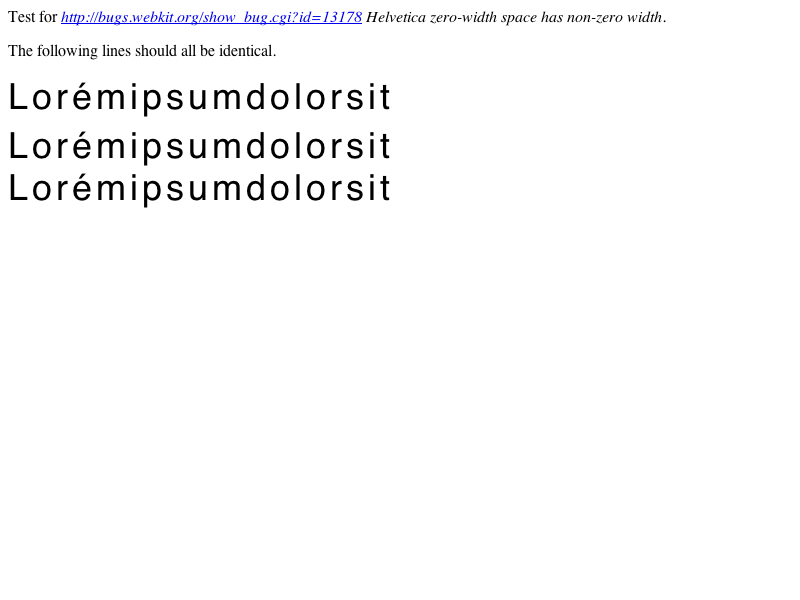
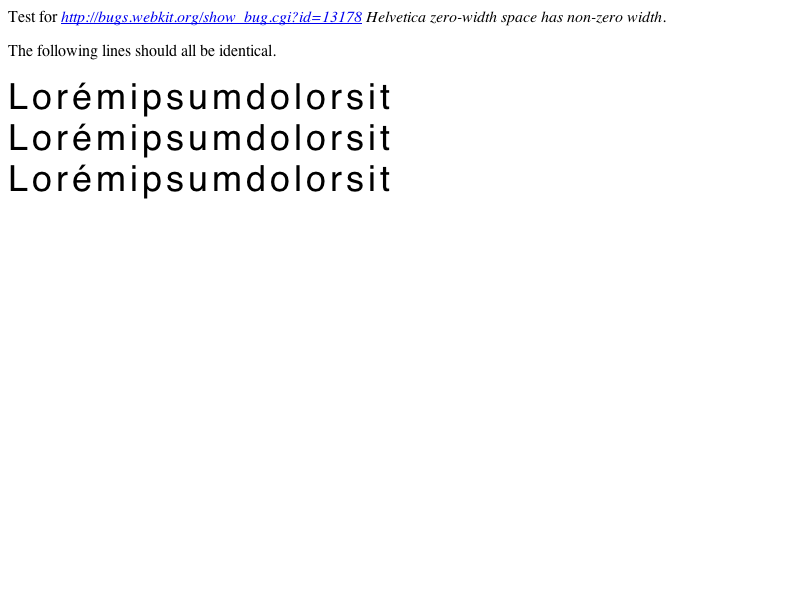
WebCore:
Reviewed by Sam Weinig.

        - fix a regression from r42379 which made zero-width characters affect
          line height

        Test: fixes fast/text/wide-zero-width-space.html

        * platform/graphics/mac/FontMacATSUI.mm:
        (WebCore::overrideLayoutOperation): Add to the fallback font list set
        here, and only if the glyph is not zero-width...
        (WebCore::ATSULayoutParameters::initialize): ...instead of doing it
        here. This matches WidthIterator's behavior.

LayoutTests:

        Reviewed by Sam Weinig.

        - revert broken test results that were checked in with r42379, now that
          the regression is fixed

        * platform/mac/fast/text/wide-zero-width-space-expected.checksum:
        * platform/mac/fast/text/wide-zero-width-space-expected.png:
        * platform/mac/fast/text/wide-zero-width-space-expected.txt:

Identifier: 34450@main
git-svn-id: https://svn.webkit.org/repository/webkit/trunk@42396 268f45cc-cd09-0410-ab3c-d52691b4dbfc

Changed region(s): [[0.0, 0.21, 0.5, 0.36]]

diff --git a/WebCore/platform/graphics/mac/FontMacATSUI.mm b/WebCore/platform/graphics/mac/FontMacATSUI.mm
@@ -183,7 +183,6 @@ static OSStatus overrideLayoutOperation(ATSULayoutOperationSelector, ATSULineRef
         bool shouldRound = false;
         bool syntheticBoldPass = params->m_syntheticBoldPass;
         Fixed syntheticBoldOffset = 0;
-        ATSGlyphRef spaceGlyph = 0;
         bool hasExtraSpacing = (params->m_font->letterSpacing() || params->m_font->wordSpacing() || params->m_run.padding()) && !params->m_run.spacingDisabled();
         float padding = params->m_run.padding();
         // In the CoreGraphics code path, the rounding hack is applied in logical order.
@@ -193,22 +192,23 @@ static OSStatus overrideLayoutOperation(ATSULayoutOperationSelector, ATSULineRef
         for (i = 1; i < count; i++) {
             bool isLastChar = i == count - 1;
             renderer = renderers[offset / 2];
-            if (renderer != lastRenderer) {
-                lastRenderer = renderer;
-                spaceGlyph = renderer->m_spaceGlyph;
-                // The CoreGraphics interpretation of NSFontAntialiasedIntegerAdvancementsRenderingMode seems
-                // to be "round each glyph's width to the nearest integer". This is not the same as ATSUI
-                // does in any of its device-metrics modes.
-                shouldRound = renderer->platformData().roundsGlyphAdvances();
-                if (syntheticBoldPass)
-                    syntheticBoldOffset = FloatToFixed(renderer->m_syntheticBoldOffset);
-            }
             float width;
             if (nextCh == zeroWidthSpace || Font::treatAsZeroWidthSpace(nextCh) && !Font::treatAsSpace(nextCh)) {
                 width = 0;
-                layoutRecords[i-1].glyphID = spaceGlyph;
+                layoutRecords[i-1].glyphID = renderer->m_spaceGlyph;
             } else {
                 width = FixedToFloat(layoutRecords[i].realPos - lastNativePos);
+                if (renderer != lastRenderer && width) {
+                    lastRenderer = renderer;
+                    // The CoreGraphics interpretation of NSFontAntialiasedIntegerAdvancementsRenderingMode seems
+                    // to be "round each glyph's width to the nearest integer". This is not the same as ATSUI
+                    // does in any of its device-metrics modes.
+                    shouldRound = renderer->platformData().roundsGlyphAdvances();
+                    if (syntheticBoldPass)
+                        syntheticBoldOffset = FloatToFixed(renderer->m_syntheticBoldOffset);
+                    if (params->m_fallbackFonts && renderer != params->m_font->primaryFont())
+                        params->m_fallbackFonts->add(renderer);
+                }
                 if (shouldRound)
                     width = roundf(width);
                 width += renderer->m_syntheticBoldOffset;
@@ -261,7 +261,7 @@ static OSStatus overrideLayoutOperation(ATSULayoutOperationSelector, ATSULineRef
                 if (syntheticBoldOffset)
                     layoutRecords[i-1].realPos += syntheticBoldOffset;
                 else
-                    layoutRecords[i-1].glyphID = spaceGlyph;
+                    layoutRecords[i-1].glyphID = renderer->m_spaceGlyph;
             }
             layoutRecords[i].realPos = FloatToFixed(lastAdjustedPos);
         }
@@ -394,11 +394,8 @@ void ATSULayoutParameters::initialize(const Font* font, const GraphicsContext* g
             substituteFontData = fallbackFontData ? fallbackFontData->fontDataForCharacter(m_run[0]) : 0;
             if (substituteFontData) {
                 initializeATSUStyle(substituteFontData);
-                if (substituteFontData->m_ATSUStyle) {
+                if (substituteFontData->m_ATSUStyle)
                     ATSUSetRunStyle(layout, substituteFontData->m_ATSUStyle, substituteOffset, substituteLength);
-                    if (m_fallbackFonts && substituteFontData != fontData)
-                        (*m_fallbackFonts).add(substituteFontData);
-                }
             } else
                 substituteFontData = fontData;
         } else {
